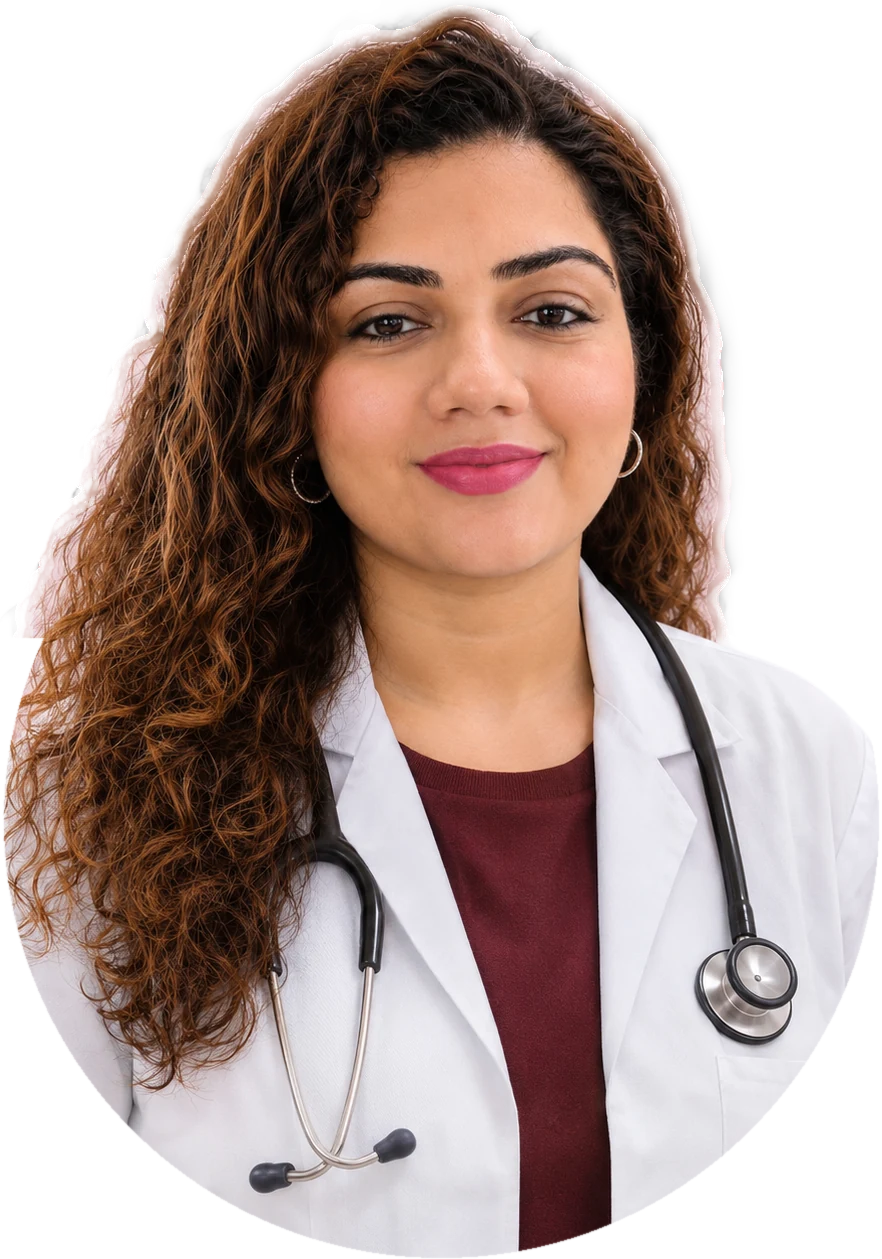
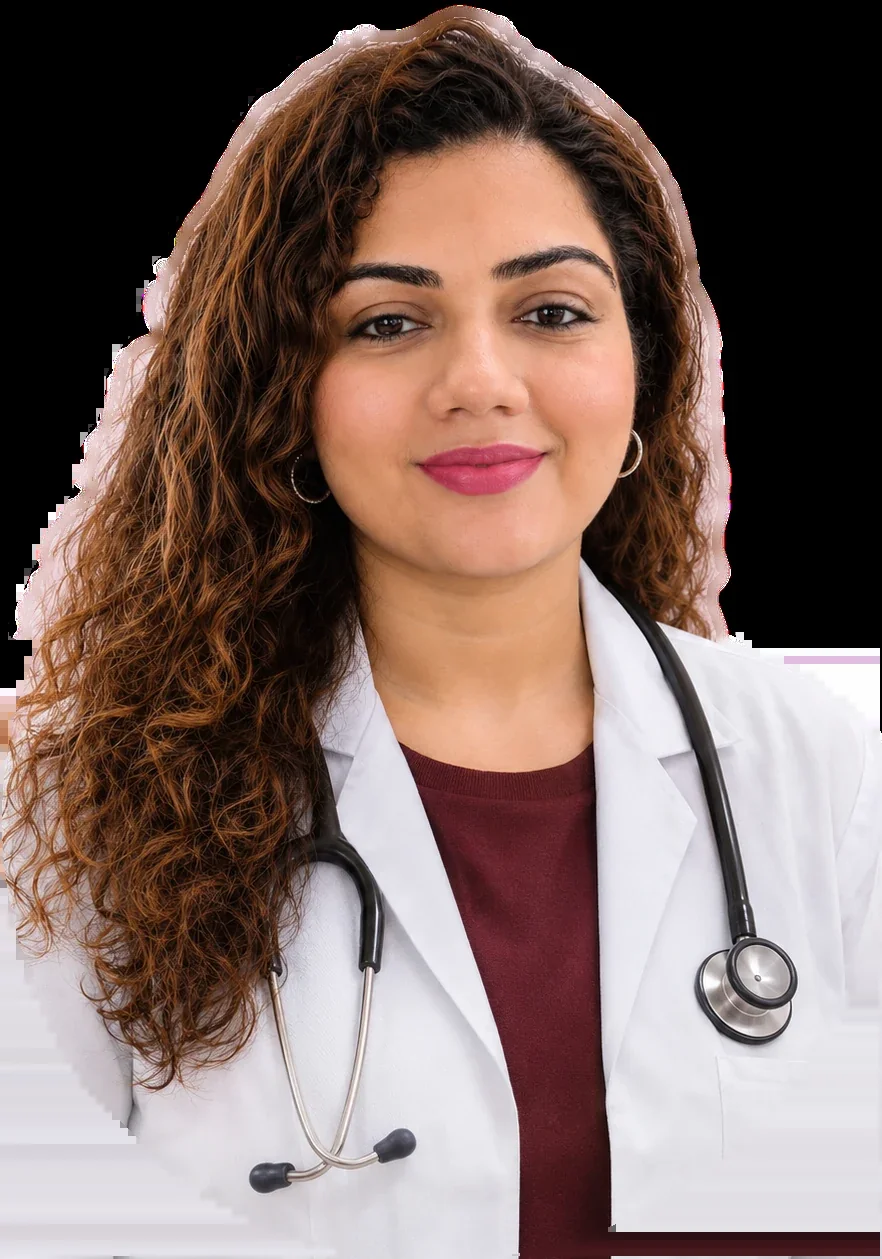
LCP: parse-time on-load, responsive portrait srcset + preload, q85 re-encode

diff --git a/app/page.tsx b/app/page.tsx
@@ -1,4 +1,5 @@
 import type { Metadata } from "next";
+import { preload } from "react-dom";
 import { pageMeta } from "@/lib/meta";
 import { JsonLd, physicianClinicLd, webSiteLd, faqPageLd } from "@/lib/schema";
 import Link from "next/link";
@@ -30,6 +31,13 @@ const wa = `https://wa.me/${site.whatsappNumber}?text=${encodeURIComponent("Hell
 
 
 export default function HomePage() {
+  preload("/images/halo-portrait-882.webp", {
+    as: "image",
+    imageSrcSet:
+      "/images/halo-portrait-480.webp 480w, /images/halo-portrait-640.webp 640w, /images/halo-portrait-882.webp 882w",
+    imageSizes: "(max-width: 900px) 62vw, 31vw",
+    fetchPriority: "high",
+  });
   return (
     <>
       <JsonLd data={[physicianClinicLd(), webSiteLd(), faqPageLd(HOME_FAQS)]} />
@@ -62,7 +70,17 @@ export default function HomePage() {
                   <div className="ring r0"></div>
                   <div className="halo" id="halo"></div>
                   <div className="bloom" id="bloom"></div>
-                  <img className="pimg" id="pimg" src="/images/halo-portrait.webp" alt="Dr. Riddhi D. Shah, gynaecologist and laparoscopic surgeon in Borivali West, Mumbai" width={882} height={1259} fetchPriority="high" decoding="async" />
+                  <img
+                    className="pimg"
+                    id="pimg"
+                    src="/images/halo-portrait-882.webp"
+                    srcSet="/images/halo-portrait-480.webp 480w, /images/halo-portrait-640.webp 640w, /images/halo-portrait-882.webp 882w"
+                    sizes="(max-width: 900px) 62vw, 31vw"
+                    alt="Dr. Riddhi D. Shah, gynaecologist and laparoscopic surgeon in Borivali West, Mumbai"
+                    width={882}
+                    height={1259}
+                    decoding="async"
+                  />
                   <span className="star" style={{ right: "-2%", top: "22%", width: 34 }}><svg viewBox="0 0 40 40"><path d="M20 2l3.5 13L36 20l-12.5 5L20 38l-3.5-13L4 20l12.5-5z" fill="currentColor" /></svg></span>
                   <span className="star" style={{ left: "4%", top: "34%", width: 18, color: "var(--blush)" }}><svg viewBox="0 0 40 40" style={{ animationDelay: "-1.4s" }}><path d="M20 2l3.5 13L36 20l-12.5 5L20 38l-3.5-13L4 20l12.5-5z" fill="currentColor" /></svg></span>
                   <svg className="sprig" style={{ left: "-16%", bottom: "6%", width: 90 }} viewBox="0 0 110 160" aria-hidden="true" fill="none" stroke="currentColor" strokeWidth="1.6" strokeLinecap="round">
@@ -102,7 +120,7 @@ export default function HomePage() {
           <div className="st-side"><span className="kick">A note from the doctor</span><div className="chips"><span>Periods</span><span>PCOS</span><span>Cysts</span><span>Pap smear</span><span>Menopause</span></div></div>
           <div>
             <p className="st-text" id="stText">{"Heavy periods, PCOS, a cyst on a scan, a missed cycle. Most gynae problems are".split(" ").map((w, i) => <span className="w" key={i}>{w} </span>)}<span className="w"><em>common</em>, </span>{"treatable and nothing to feel shy about. You deserve a doctor who listens first, explains everything clearly and never rushes you.".split(" ").map((w, i) => <span className="w" key={i}>{w} </span>)}</p>
-            <div className="sig"><img src="/images/halo-portrait.webp" alt="" /><span><b>Dr. Riddhi D. Shah</b><small>Gynaecologist and laparoscopic surgeon</small></span></div>
+            <div className="sig"><img src="/images/halo-portrait-192.webp" alt="" /><span><b>Dr. Riddhi D. Shah</b><small>Gynaecologist and laparoscopic surgeon</small></span></div>
           </div>
         </div>
       </section>
@@ -351,7 +369,7 @@ export default function HomePage() {
             <span className="kick">Common questions</span>
             <h2 className="h2">Ask <em>anything</em></h2>
             <p className="sub">General answers to help you prepare. For advice about you, book a visit.</p>
-            <div className="reviewed"><img src="/images/halo-portrait.webp" alt="" /><span>Medically reviewed by <b style={{ color: "var(--brown)" }}>Dr. Riddhi D. Shah</b><br />Last reviewed {site.reviewed}</span></div>
+            <div className="reviewed"><img src="/images/halo-portrait-192.webp" alt="" /><span>Medically reviewed by <b style={{ color: "var(--brown)" }}>Dr. Riddhi D. Shah</b><br />Last reviewed {site.reviewed}</span></div>
           </div>
           <div className="qa">
             {HOME_FAQS.map((f, i) => (

diff --git a/app/learn/pcos-myths/page.tsx b/app/learn/pcos-myths/page.tsx
@@ -58,7 +58,7 @@ export default function PcosMythsArticle() {
               <span className="ln"><span style={d(2)}><em>what is actually true</em></span></span>
             </h1>
             <div className="auth rv" style={d(4)}>
-              <img src="/images/halo-portrait.webp" alt="" />
+              <img src="/images/halo-portrait-192.webp" alt="" />
               <span><b>Dr. Riddhi D. Shah</b>Published and updated {site.reviewed}</span>
             </div>
           </div>
@@ -116,7 +116,7 @@ export default function PcosMythsArticle() {
             ))}
           </div>
           <div className="revbox" style={{ marginTop: 36 }}>
-            <img src="/images/halo-portrait.webp" alt="" />
+            <img src="/images/halo-portrait-192.webp" alt="" />
             <div><b>Written and reviewed by Dr. Riddhi D. Shah</b>MBBS, DNB (OBGY), FMAS, DRM · Last reviewed {site.reviewed}</div>
           </div>
           <div className="sources">

diff --git a/components/ArticlePage.tsx b/components/ArticlePage.tsx
@@ -74,7 +74,7 @@ export default function ArticlePage({
               <span className="ln"><span style={d(2)}><em>{h1[1]}</em></span></span>
             </h1>
             <div className="auth rv" style={d(4)}>
-              <img src="/images/halo-portrait.webp" alt="" />
+              <img src="/images/halo-portrait-192.webp" alt="" />
               <span><b>Dr. Riddhi D. Shah</b>Published and updated {site.reviewed}</span>
             </div>
           </div>
@@ -97,7 +97,7 @@ export default function ArticlePage({
         <article className="prose">
           {children}
           <div className="revbox" style={{ marginTop: 36 }}>
-            <img src="/images/halo-portrait.webp" alt="" />
+            <img src="/images/halo-portrait-192.webp" alt="" />
             <div><b>Written and reviewed by Dr. Riddhi D. Shah</b>MBBS, DNB (OBGY), FMAS, DRM · Last reviewed {site.reviewed}</div>
           </div>
           <div className="sources">

diff --git a/app/keyhole-surgery/page.tsx b/app/keyhole-surgery/page.tsx
@@ -181,7 +181,7 @@ export default function KeyholePage() {
             </div>
             <div className="hosp">Surgery is done at empanelled hospitals in and around Borivali.</div>
             <div className="revbox" style={{ marginTop: 16 }}>
-              <img src="/images/halo-portrait.webp" alt="" />
+              <img src="/images/halo-portrait-192.webp" alt="" />
               <div><b>Medically reviewed by Dr. Riddhi D. Shah</b>FMAS, fellowship-trained in laparoscopy and hysteroscopy · Last reviewed {site.reviewed}</div>
             </div>
           </div>

diff --git a/app/learn/page.tsx b/app/learn/page.tsx
@@ -129,7 +129,7 @@ export default function LearnPage() {
                 <span className="bd">
                   <h3>{a.t}</h3>
                   <p>{a.p}</p>
-                  <span className="meta"><img src="/images/halo-portrait.webp" alt="" />{"big" in a && a.big ? <>{a.meta} · {site.reviewed}</> : a.meta}</span>
+                  <span className="meta"><img src="/images/halo-portrait-192.webp" alt="" />{"big" in a && a.big ? <>{a.meta} · {site.reviewed}</> : a.meta}</span>
                 </span>
               </Link>
             ))}

diff --git a/app/faqs/page.tsx b/app/faqs/page.tsx
@@ -83,7 +83,7 @@ export default function FaqsPage() {
             <Link className="btn b-cream" href="/contact/#book">Ask the clinic</Link>
           </div>
           <div className="revbox" style={{ marginTop: 14 }}>
-            <img src="/images/halo-portrait.webp" alt="" />
+            <img src="/images/halo-portrait-192.webp" alt="" />
             <div><b>Medically reviewed by Dr. Riddhi D. Shah</b>Last reviewed {site.reviewed}</div>
           </div>
         </div>

diff --git a/app/treatments/[slug]/page.tsx b/app/treatments/[slug]/page.tsx
@@ -127,7 +127,7 @@ function PcosBody() {
       </div>
 
       <div className="revbox">
-        <img src="/images/halo-portrait.webp" alt="" />
+        <img src="/images/halo-portrait-192.webp" alt="" />
         <div>
           <b>Medically reviewed by Dr. Riddhi D. Shah</b>
           MBBS, DNB (OBGY), FMAS, DRM · Last reviewed {site.reviewed}. This page is for general information and does not replace a consultation.

diff --git a/app/layout.tsx b/app/layout.tsx
@@ -68,6 +68,11 @@ export default function RootLayout({
   return (
     <html lang="en-IN" data-scroll-behavior="smooth" className={`${sans.variable} ${serif.variable}`}>
       <body>
+        <script
+          dangerouslySetInnerHTML={{
+            __html: "document.body.classList.add('on-load')",
+          }}
+        />
         <Sprite />
         <PreviewBadge />
         <PageShell>{children}</PageShell>

diff --git a/components/TreatmentPage.tsx b/components/TreatmentPage.tsx
@@ -111,7 +111,7 @@ export default function TreatmentPage({
                 </a>
               </div>
               <div className="byline rv" style={{ "--d": 6 } as React.CSSProperties}>
-                <img src="/images/halo-portrait.webp" alt="" />
+                <img src="/images/halo-portrait-192.webp" alt="" />
                 <span>{byline}</span>
               </div>
             </div>

diff --git a/app/styleguide/page.tsx b/app/styleguide/page.tsx
@@ -167,7 +167,7 @@ export default function Styleguide() {
           <div style={{ display: "grid", gap: 14, maxWidth: 760 }}>
             <div className="revbox">
               <Image
-                src="/images/halo-portrait.webp"
+                src="/images/halo-portrait-192.webp"
                 alt="Dr. Riddhi D. Shah"
                 width={56}
                 height={56}

diff --git a/lib/treatment-pages.tsx b/lib/treatment-pages.tsx
@@ -46,7 +46,7 @@ export interface TreatmentDef {
 const REV = (
   <>
     <div className="revbox">
-      <img src="/images/halo-portrait.webp" alt="" />
+      <img src="/images/halo-portrait-192.webp" alt="" />
       <div>
         <b>Medically reviewed by Dr. Riddhi D. Shah</b>
         MBBS, DNB (OBGY), FMAS, DRM · Last reviewed {site.reviewed}. This page is for
